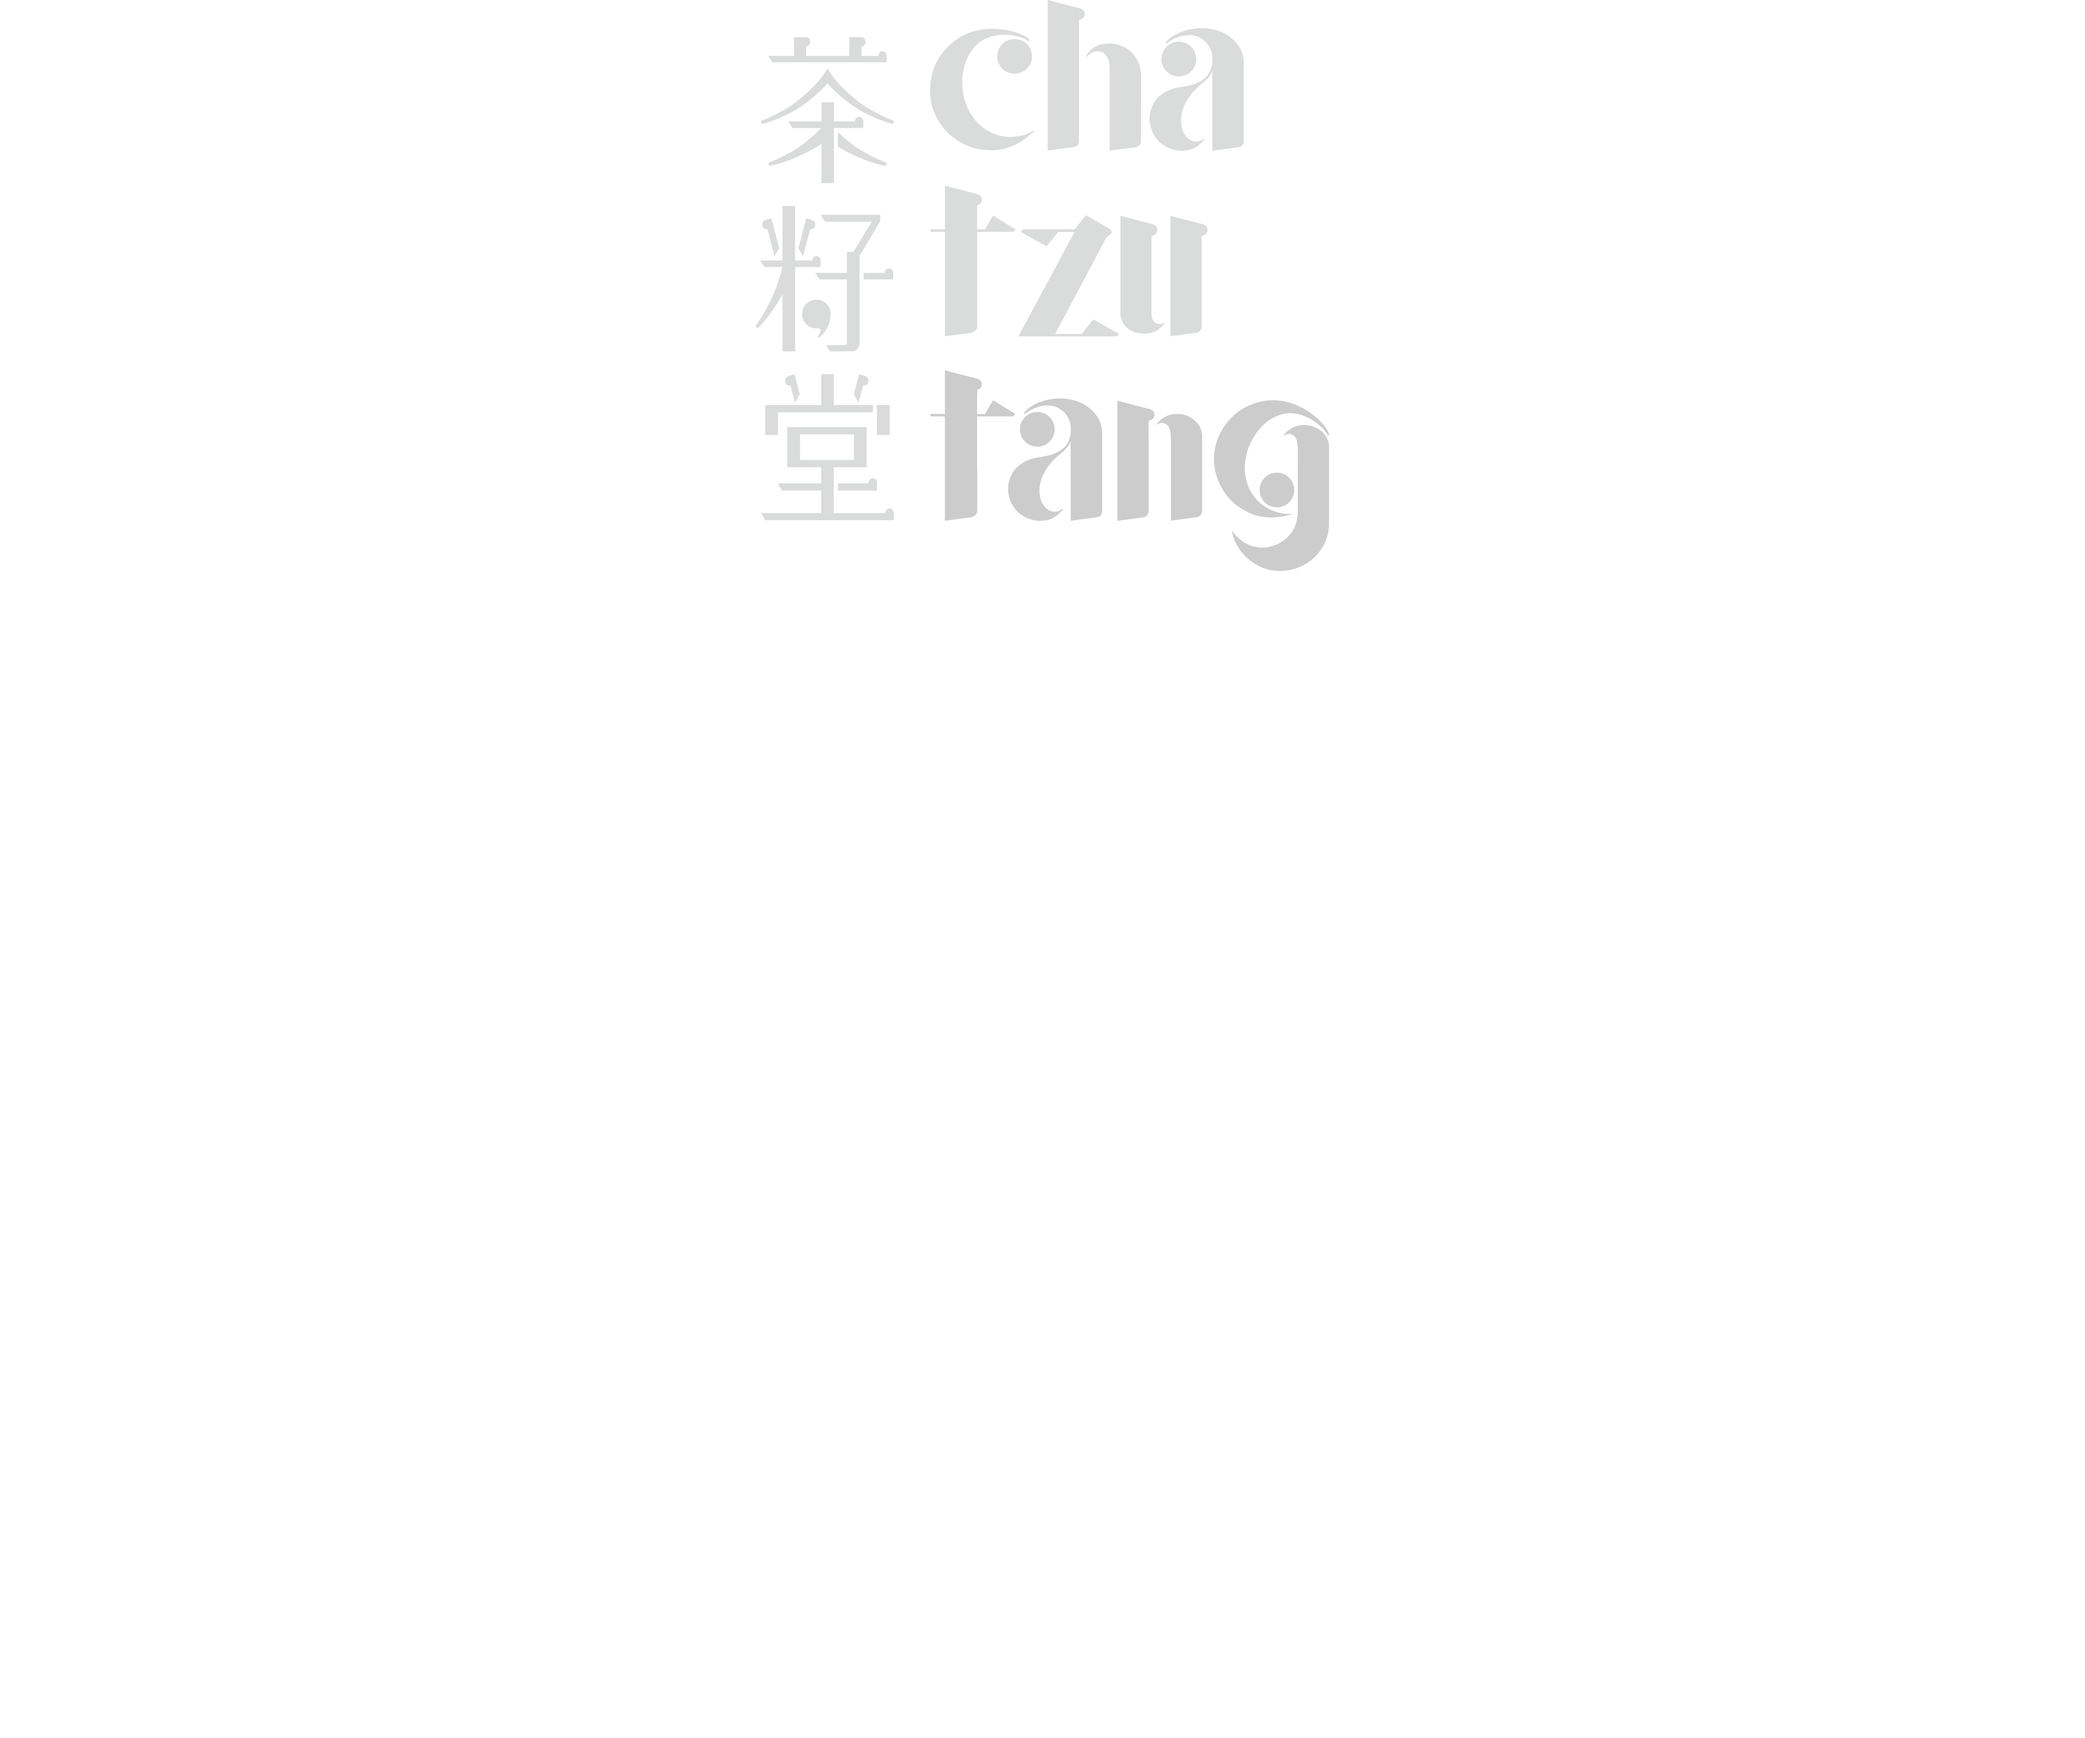
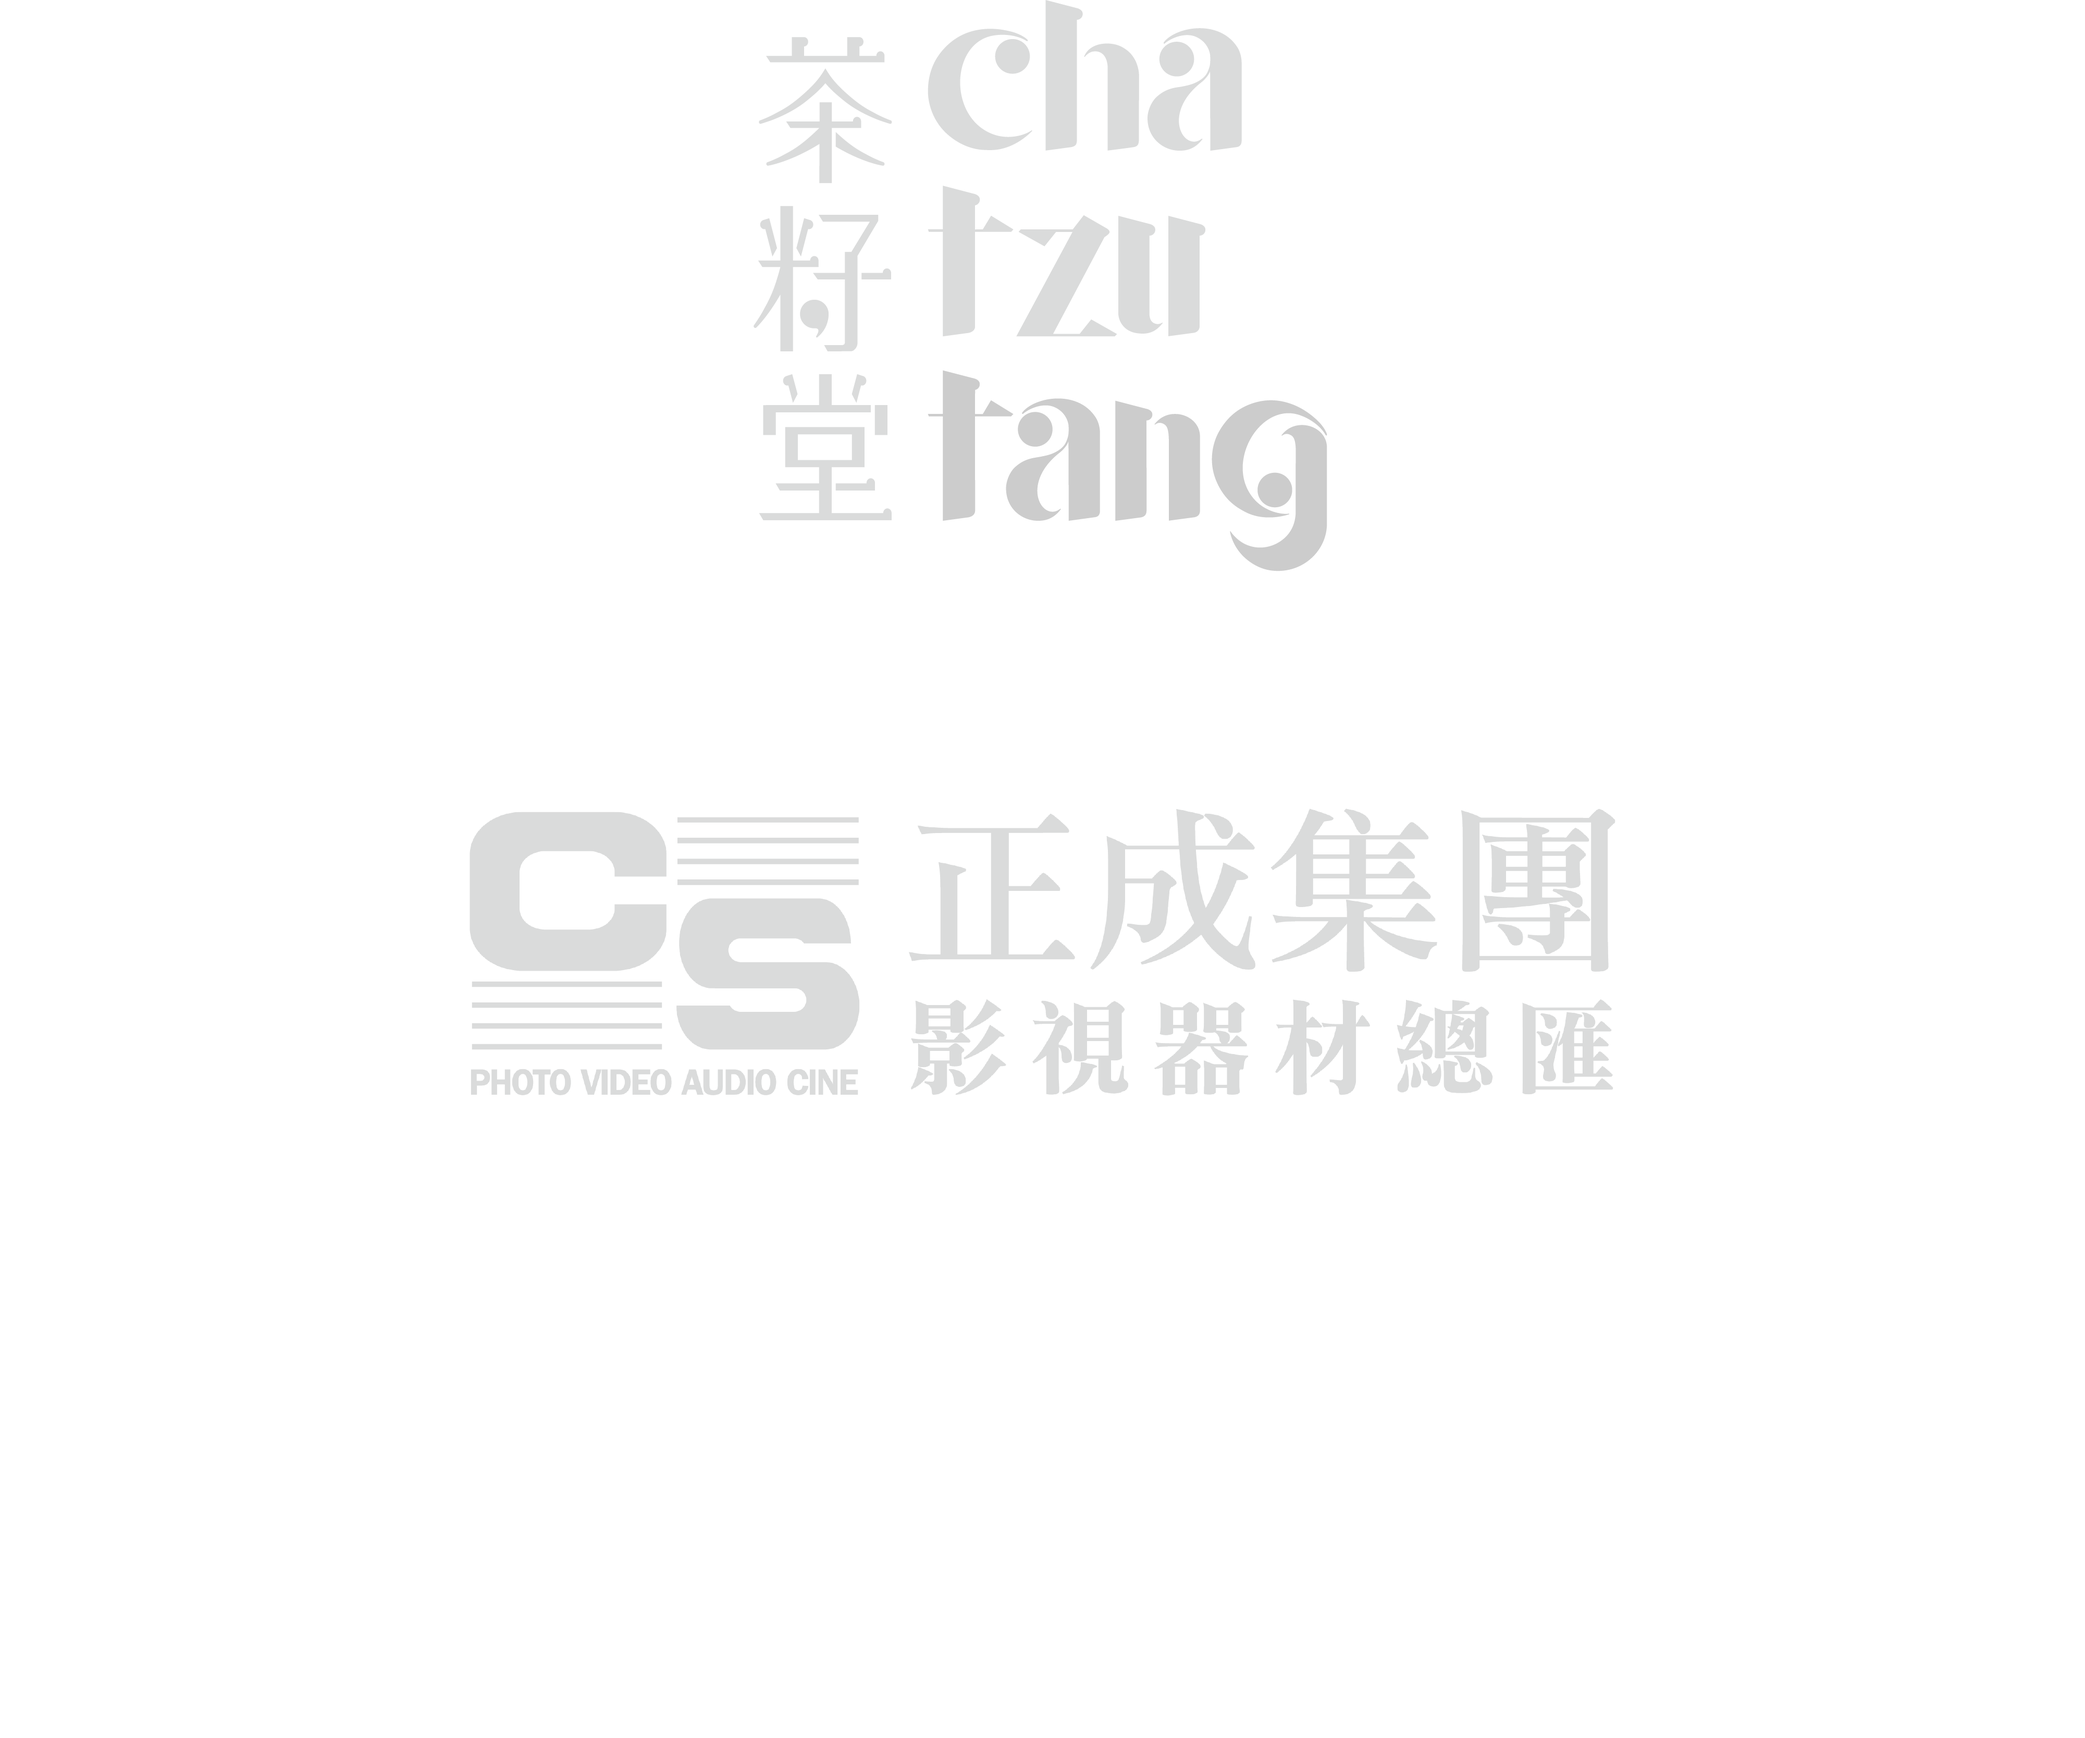
更新 dark3 partners

Changed region(s): [[0.2187, 0.4679, 0.7811, 0.6551], [0.4999, 0.2496, 0.5311, 0.2807]]

diff --git a/resources/views/dininginthedark3/frontend/home.blade.php b/resources/views/dininginthedark3/frontend/home.blade.php
@@ -738,8 +738,8 @@ height="0" width="0" style="display:none;visibility:hidden"></iframe></noscript>
 
                                 <div class="partner-sec-wrapper">
                                     <div class="partners-img">
-                                        <img class="img-fluid d-sm-block d-none" src="img/other/partners.png?v=0.1" alt="partners">
-                                        <img class="img-fluid d-sm-none d-block" src="img/other/partners-mobile.png?v=0.1" alt="partners">
+                                        <img class="img-fluid d-sm-block d-none" src="img/other/partners.png?v=0.2" alt="partners">
+                                        <img class="img-fluid d-sm-none d-block" src="img/other/partners-mobile.png?v=0.2" alt="partners">
                                     </div>
                                 </div>
                             </div>
